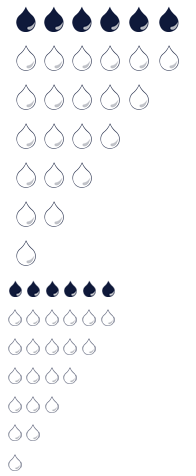
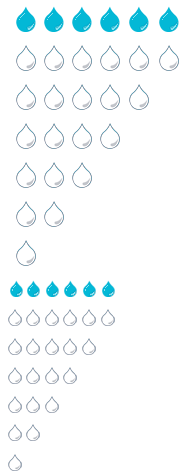
change drop color

diff --git a/CathyMini2/src/main/webapp/assets/css/icons.less b/CathyMini2/src/main/webapp/assets/css/icons.less
@@ -1,0 +1,60 @@
+@spriteUrl: url('../images/sprite.png');
+
+.icon(@x, @y, @w, @h) {
+    background-image: @spriteUrl;
+    background-position: @x @y;
+    width: @w;
+    height: @h;
+}
+
+.logo {
+    .icon(0px, 0px, 155px, 50px);
+}
+
+.cathy-icon {
+    .icon(0px, -51px, 40px, 50px);
+}
+
+.tampon-icon {
+    .icon(-41px, -51px, 26px, 26px);
+}
+
+.napkin-icon {
+    .icon(-68px, -51px, 26px, 27px);
+}
+
+.ok-icon {
+    .icon(-98px, -51px, 20px, 20px);
+}
+
+.error-icon {
+    .icon(-124px, -51px, 20px, 20px);
+}
+
+.tick-icon {
+    .icon(-44px, -82px, 10px, 10px);
+}
+
+.edit-icon {
+    .icon(-61px, -82px, 20px, 20px);
+}
+
+.remove-icon {
+    .icon(-84px, -82px, 16px, 16px);
+}
+
+.double-up-icon {
+    .icon(-101px, -82px, 20px, 20px);
+}
+
+.double-down-icon {
+    .icon(-118px, -82px, 20px, 20px);
+}
+
+.carousel-next-icon {
+    .icon(-155px, 0px, 45px, 44px);
+}
+
+.carousel-prev-icon {
+    .icon(-155px, -44px, 45px, 44px);
+}

diff --git a/CathyMini2/src/main/webapp/assets/css/main.less b/CathyMini2/src/main/webapp/assets/css/main.less
@@ -8,6 +8,10 @@
 @import "index.less";
 @import "account.less";
 
+body {
+    height: 100%;
+}
+
 .navbar-default {
     background-color: @mainColor; 
     border-bottom: solid 2px #fff;
@@ -51,6 +55,7 @@
 
 #content {
     margin-top: 82px;
+    height: 100%;
 }
 
 #footer {
